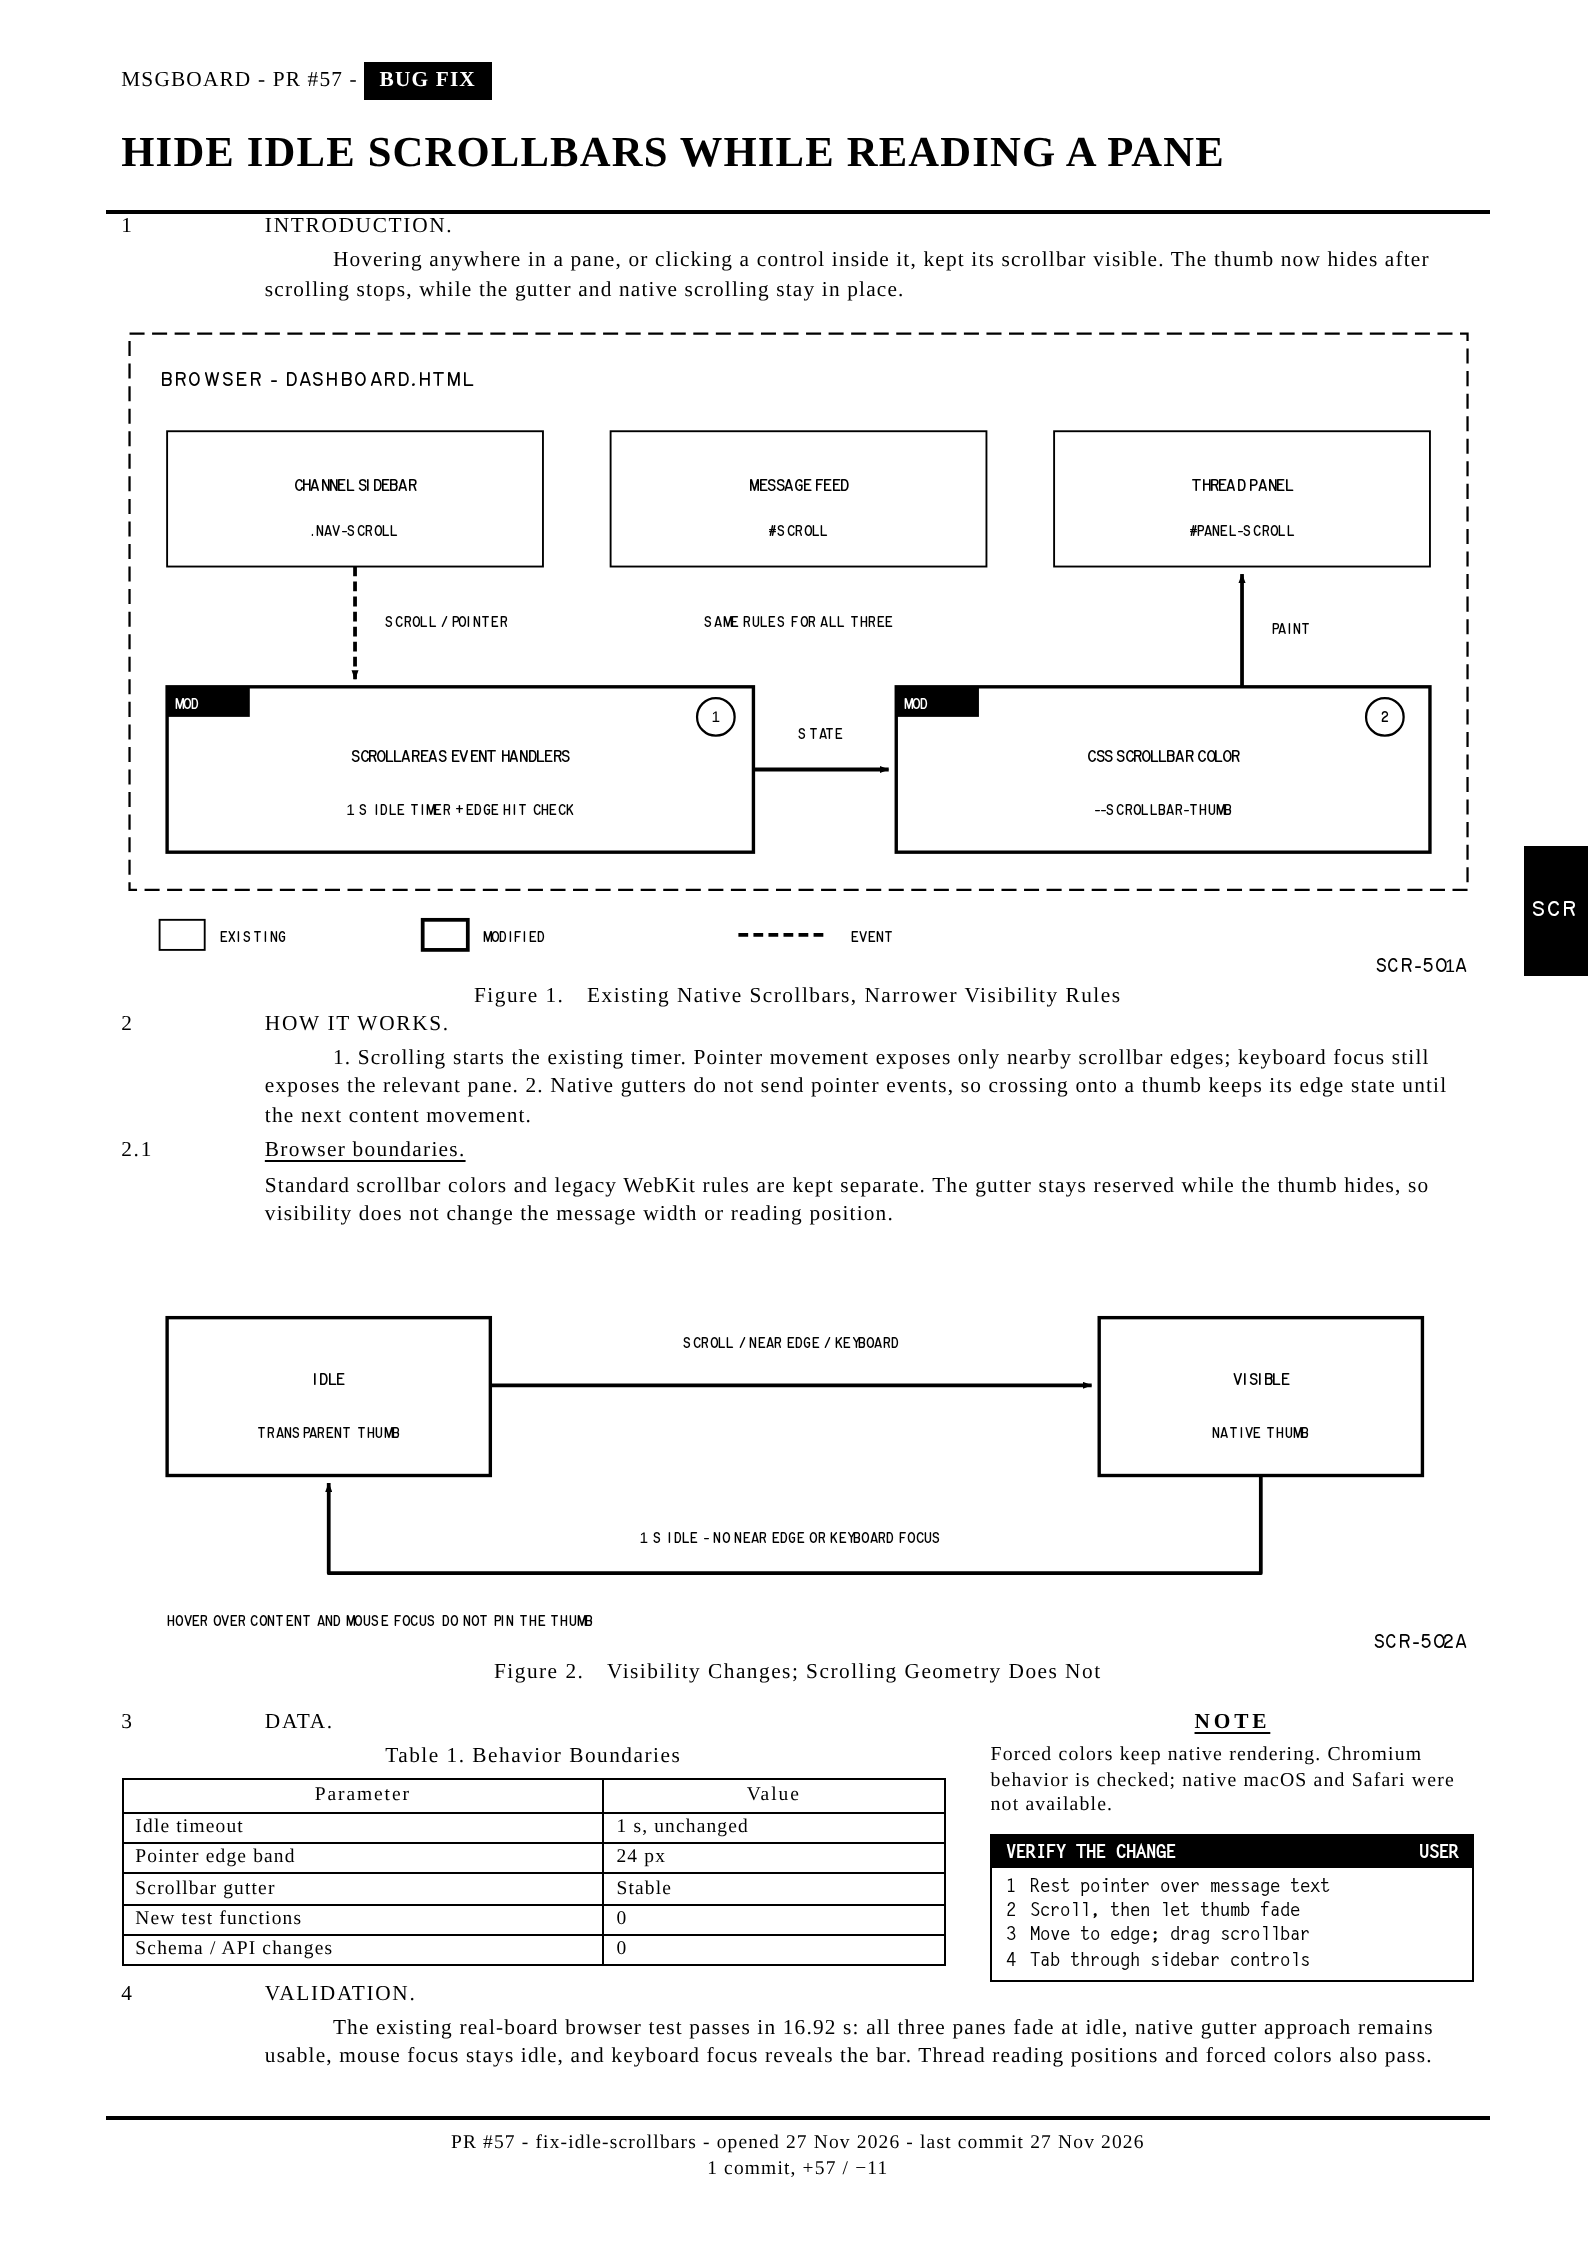
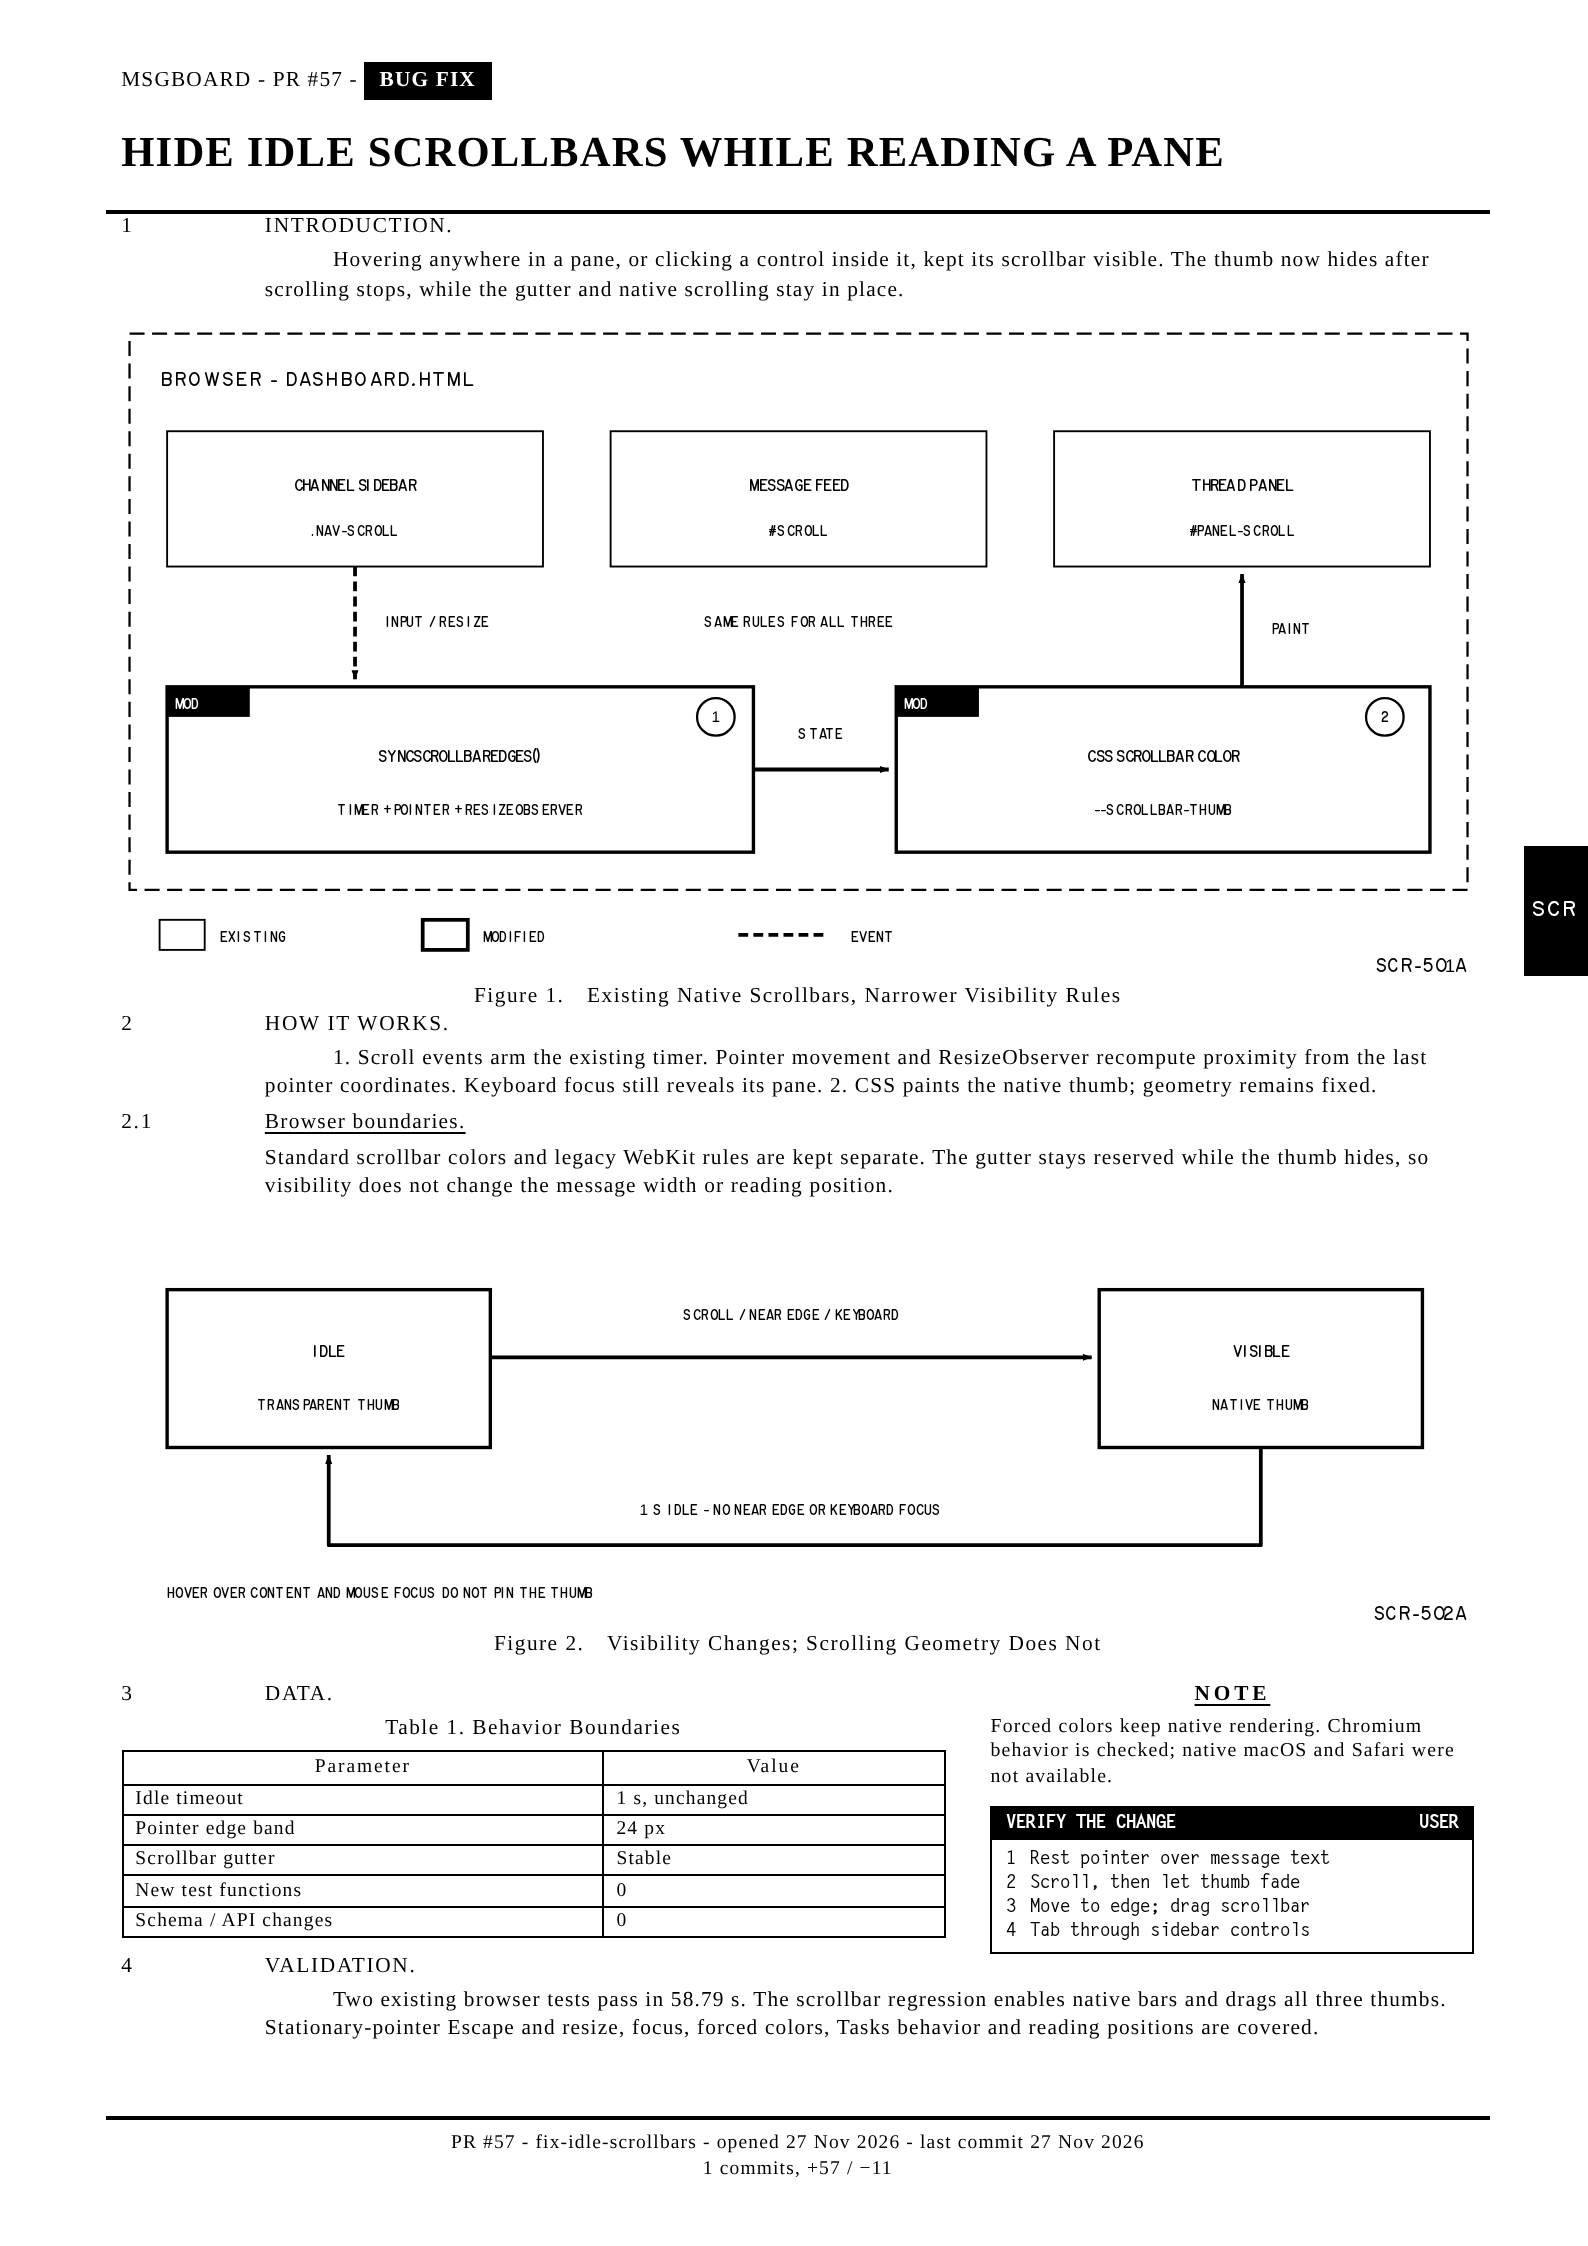
Update scrollbar review fixes and native dragging evidence

diff --git a/artifacts/pr-57/pr-57.html b/artifacts/pr-57/pr-57.html
@@ -134,13 +134,13 @@
 <rect x="6" y="14" width="50" height="18" fill="white" stroke="black" stroke-width=".25"/><text class="lbl" x="31" y="22" text-anchor="middle">CHANNEL SIDEBAR</text><text class="lbl-s" x="31" y="28" text-anchor="middle">.NAV-SCROLL</text>
 <rect x="65" y="14" width="50" height="18" fill="white" stroke="black" stroke-width=".25"/><text class="lbl" x="90" y="22" text-anchor="middle">MESSAGE FEED</text><text class="lbl-s" x="90" y="28" text-anchor="middle">#SCROLL</text>
 <rect x="124" y="14" width="50" height="18" fill="white" stroke="black" stroke-width=".25"/><text class="lbl" x="149" y="22" text-anchor="middle">THREAD PANEL</text><text class="lbl-s" x="149" y="28" text-anchor="middle">#PANEL-SCROLL</text>
-<text class="lbl-s" x="90" y="40" text-anchor="middle">SAME RULES FOR ALL THREE</text><path class="wa" style="stroke-width:.5;stroke-dasharray:1.3 .7" d="M31 32V47"/><text class="lbl-s" x="35" y="40">SCROLL / POINTER</text>
-<rect class="box" x="6" y="48" width="78" height="22"/><rect x="6" y="48" width="11" height="4" fill="black"/><text class="lbl-s" x="7" y="51" style="fill:white">MOD</text><circle cx="79" cy="52" r="2.5" fill="white" stroke="black" stroke-width=".3"/><text class="lbl-s" x="79" y="52.7" text-anchor="middle">1</text><text class="lbl" x="45" y="58" text-anchor="middle">SCROLLAREAS EVENT HANDLERS</text><text class="lbl-s" x="45" y="65" text-anchor="middle">1 S IDLE TIMER + EDGE HIT CHECK</text>
+<text class="lbl-s" x="90" y="40" text-anchor="middle">SAME RULES FOR ALL THREE</text><path class="wa" style="stroke-width:.5;stroke-dasharray:1.3 .7" d="M31 32V47"/><text class="lbl-s" x="35" y="40">INPUT / RESIZE</text>
+<rect class="box" x="6" y="48" width="78" height="22"/><rect x="6" y="48" width="11" height="4" fill="black"/><text class="lbl-s" x="7" y="51" style="fill:white">MOD</text><circle cx="79" cy="52" r="2.5" fill="white" stroke="black" stroke-width=".3"/><text class="lbl-s" x="79" y="52.7" text-anchor="middle">1</text><text class="lbl" x="45" y="58" text-anchor="middle">SYNCSCROLLBAREDGES()</text><text class="lbl-s" x="45" y="65" text-anchor="middle">TIMER + POINTER + RESIZEOBSERVER</text>
 <path class="wa" style="stroke-width:.5" d="M84 59H102"/><text class="lbl-s" x="93" y="55" text-anchor="middle">STATE</text>
 <rect class="box" x="103" y="48" width="71" height="22"/><rect x="103" y="48" width="11" height="4" fill="black"/><text class="lbl-s" x="104" y="51" style="fill:white">MOD</text><circle cx="168" cy="52" r="2.5" fill="white" stroke="black" stroke-width=".3"/><text class="lbl-s" x="168" y="52.7" text-anchor="middle">2</text><text class="lbl" x="138.5" y="58" text-anchor="middle">CSS SCROLLBAR COLOR</text><text class="lbl-s" x="138.5" y="65" text-anchor="middle">--SCROLLBAR-THUMB</text>
 <path class="wa" style="stroke-width:.5" d="M149 48V33"/><text class="lbl-s" x="153" y="41">PAINT</text>
 <rect x="5" y="79" width="6" height="4" fill="white" stroke="black" stroke-width=".25"/><text class="lbl-s" x="13" y="82">EXISTING</text><rect x="40" y="79" width="6" height="4" fill="white" stroke="black" stroke-width=".5"/><text class="lbl-s" x="48" y="82">MODIFIED</text><path d="M82 81H94" stroke="black" stroke-width=".5" stroke-dasharray="1.3 .7"/><text class="lbl-s" x="97" y="82">EVENT</text><text class="code" x="179" y="86" text-anchor="end">SCR-501A</text></svg><figcaption><span class="n">Figure 1.</span>Existing Native Scrollbars, Narrower Visibility Rules</figcaption></figure>
-<section class="para"><div class="num">2</div><div><h2>HOW IT WORKS.</h2><p>1. Scrolling starts the existing timer. Pointer movement exposes only nearby scrollbar edges; keyboard focus still exposes the relevant pane. 2. Native gutters do not send pointer events, so crossing onto a thumb keeps its edge state until the next content movement.</p></div></section>
+<section class="para"><div class="num">2</div><div><h2>HOW IT WORKS.</h2><p>1. Scroll events arm the existing timer. Pointer movement and ResizeObserver recompute proximity from the last pointer coordinates. Keyboard focus still reveals its pane. 2. CSS paints the native thumb; geometry remains fixed.</p></div></section>
 <section class="para"><div class="num">2.1</div><div><h3>Browser boundaries.</h3><p class="flush">Standard scrollbar colors and legacy WebKit rules are kept separate. The gutter stays reserved while the thumb hides, so visibility does not change the message width or reading position.</p></div></section>
 <figure><svg viewBox="0 0 180 54" role="img" aria-label="Scrollbar thumb toggles between transparent and visible">
 <rect class="box" x="6" y="9" width="43" height="21"/><text class="lbl" x="27.5" y="18" text-anchor="middle">IDLE</text><text class="lbl-s" x="27.5" y="25" text-anchor="middle">TRANSPARENT THUMB</text>
@@ -149,8 +149,8 @@
 <path class="wa" style="stroke-width:.5" d="M151.5 30V43H27.5V31"/><text class="lbl-s" x="89" y="39" text-anchor="middle">1 S IDLE - NO NEAR EDGE OR KEYBOARD FOCUS</text>
 <text class="lbl-s" x="6" y="50">HOVER OVER CONTENT AND MOUSE FOCUS DO NOT PIN THE THUMB</text><text class="code" x="179" y="53" text-anchor="end">SCR-502A</text></svg><figcaption><span class="n">Figure 2.</span>Visibility Changes; Scrolling Geometry Does Not</figcaption></figure>
 <div class="lower"><div><section class="para"><div class="num">3</div><div><h2>DATA.</h2></div></section><div class="tcap">Table 1. Behavior Boundaries</div><table><thead><tr><th>Parameter</th><th>Value</th></tr></thead><tbody><tr><td>Idle timeout</td><td class="v">1 s, unchanged</td></tr><tr><td>Pointer edge band</td><td class="v">24 px</td></tr><tr><td>Scrollbar gutter</td><td class="v">Stable</td></tr><tr><td>New test functions</td><td class="v">0</td></tr><tr><td>Schema / API changes</td><td class="v">0</td></tr></tbody></table></div><div><div class="notice"><span class="tag">NOTE</span><p>Forced colors keep native rendering. Chromium behavior is checked; native macOS and Safari were not available.</p></div><div class="card"><div class="bar"><span>VERIFY THE CHANGE</span><span>USER</span></div><ol><li><span>1</span><span>Rest pointer over message text</span></li><li><span>2</span><span>Scroll, then let thumb fade</span></li><li><span>3</span><span>Move to edge; drag scrollbar</span></li><li><span>4</span><span>Tab through sidebar controls</span></li></ol></div></div></div>
-<section class="para"><div class="num">4</div><div><h2>VALIDATION.</h2><p>The existing real-board browser test passes in 16.92 s: all three panes fade at idle, native gutter approach remains usable, mouse focus stays idle, and keyboard focus reveals the bar. Thread reading positions and forced colors also pass.</p></div></section>
-<footer class="foot"><div class="rule"></div><div style="text-align:center;font-size:7.3pt">PR #57 - fix-idle-scrollbars - opened 27 Nov 2026 - last commit 27 Nov 2026<br>1 commit, +57 / −11</div></footer></div><script>
+<section class="para"><div class="num">4</div><div><h2>VALIDATION.</h2><p>Two existing browser tests pass in 58.79 s. The scrollbar regression enables native bars and drags all three thumbs. Stationary-pointer Escape and resize, focus, forced colors, Tasks behavior and reading positions are covered.</p></div></section>
+<footer class="foot"><div class="rule"></div><div style="text-align:center;font-size:7.3pt">PR #57 - fix-idle-scrollbars - opened 27 Nov 2026 - last commit 27 Nov 2026<br>1 commits, +57 / −11</div></footer></div><script>
   // Fit check: room left between the last content block and the footer.
   // .page hides overflow, so without this an overfull page fails silently.
   // render.sh prints the result from <html data-fit>.

diff --git a/artifacts/pr-57/manual-browser-check.md b/artifacts/pr-57/manual-browser-check.md
@@ -1,0 +1,11 @@
+# Native macOS / Safari check — not yet performed
+
+Use the PR build in a normal browser window, with enough channels and messages for the sidebar, channel and thread to overflow. This check is for an actual Mac/Safari browser, not Linux WebKit or mobile emulation.
+
+1. Scroll each pane, then leave the pointer over its text. The thumb should fade after one second.
+2. Move toward the scrollbar and drag its native thumb. Content should move, and its column width should stay steady.
+3. Leave the pointer near the main feed's scrollbar, then press Escape to close the thread. Once scrolling stops, the widened feed's thumb should hide without a pointer move.
+4. Repeat by widening the browser window.
+5. Click a sidebar control: mouse focus should not keep the thumb visible. Tab through sidebar controls: keyboard focus should reveal it.
+
+Record macOS version, Safari version, system scrollbar setting (Automatically / When scrolling / Always), and the result. If possible, check a current Safari version and a version using the legacy WebKit fallback. Chromium's native-enabled regression does not establish these results.
